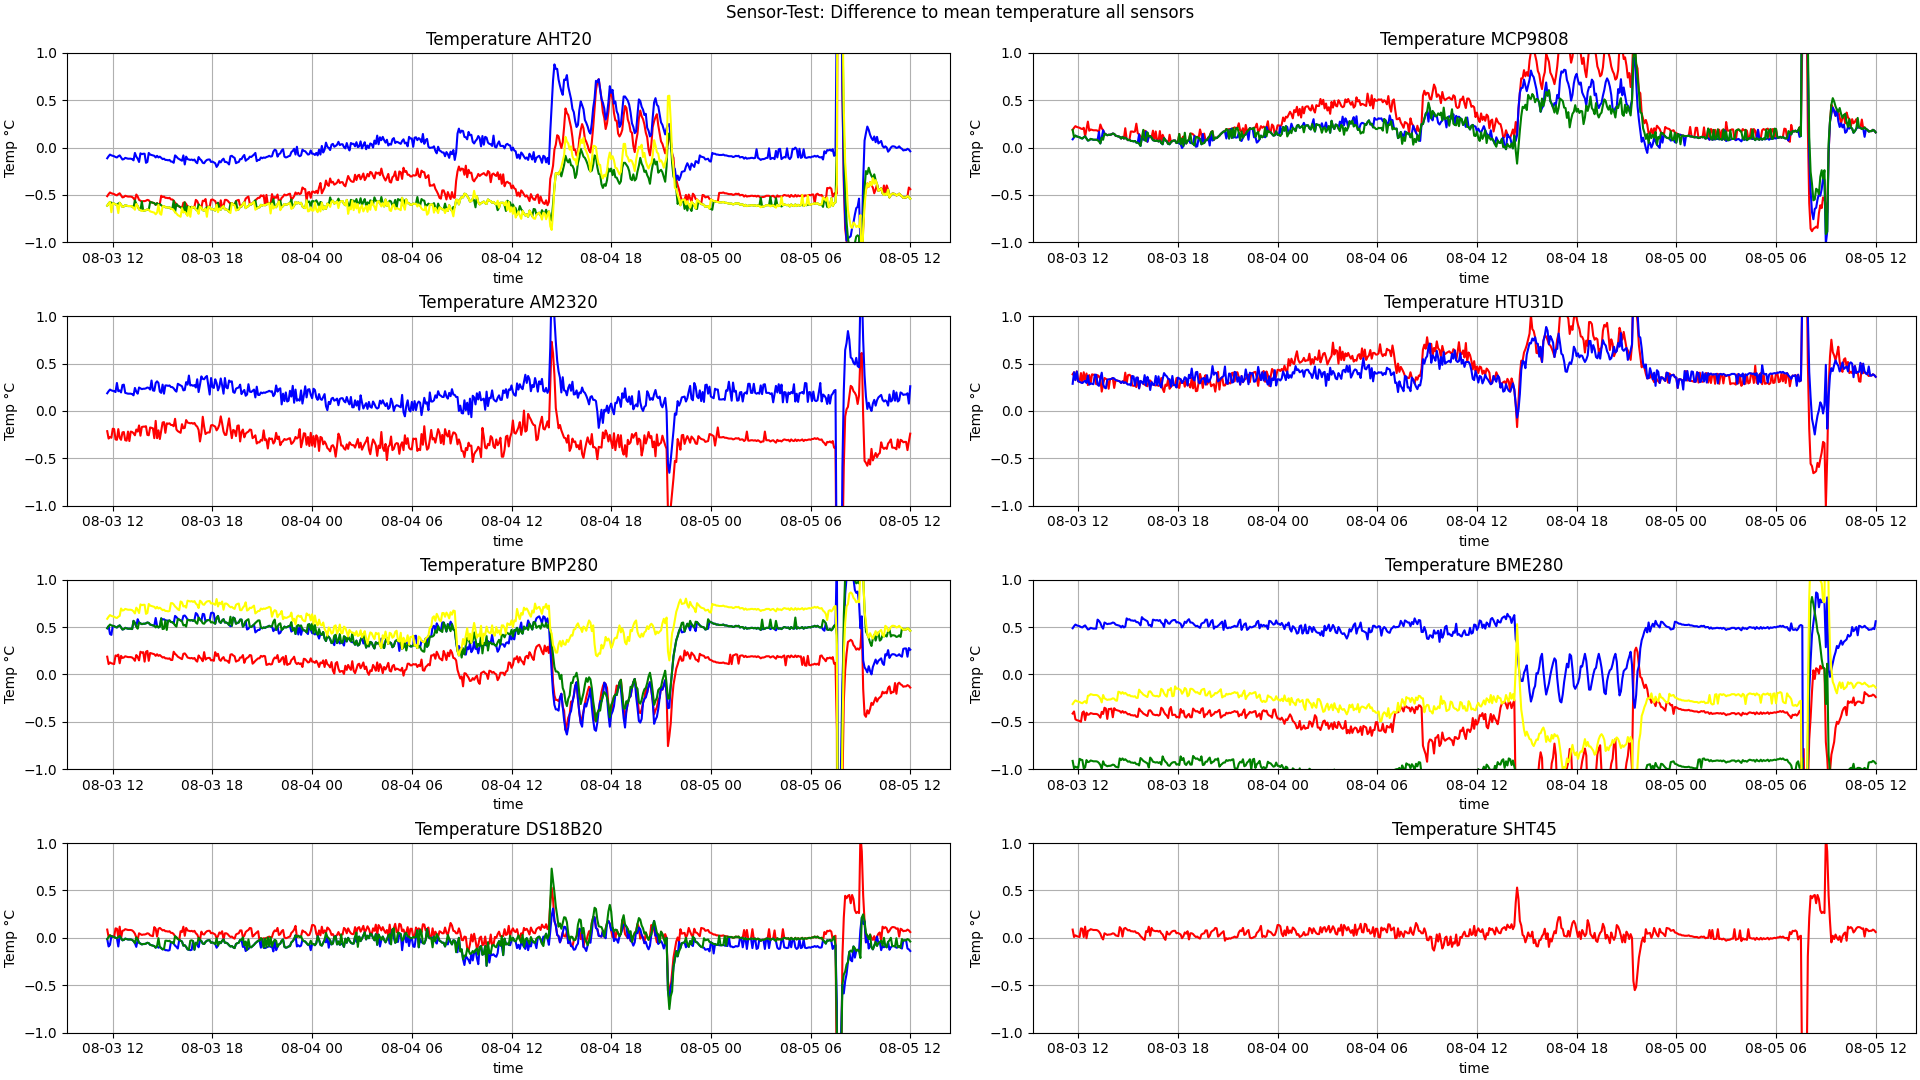
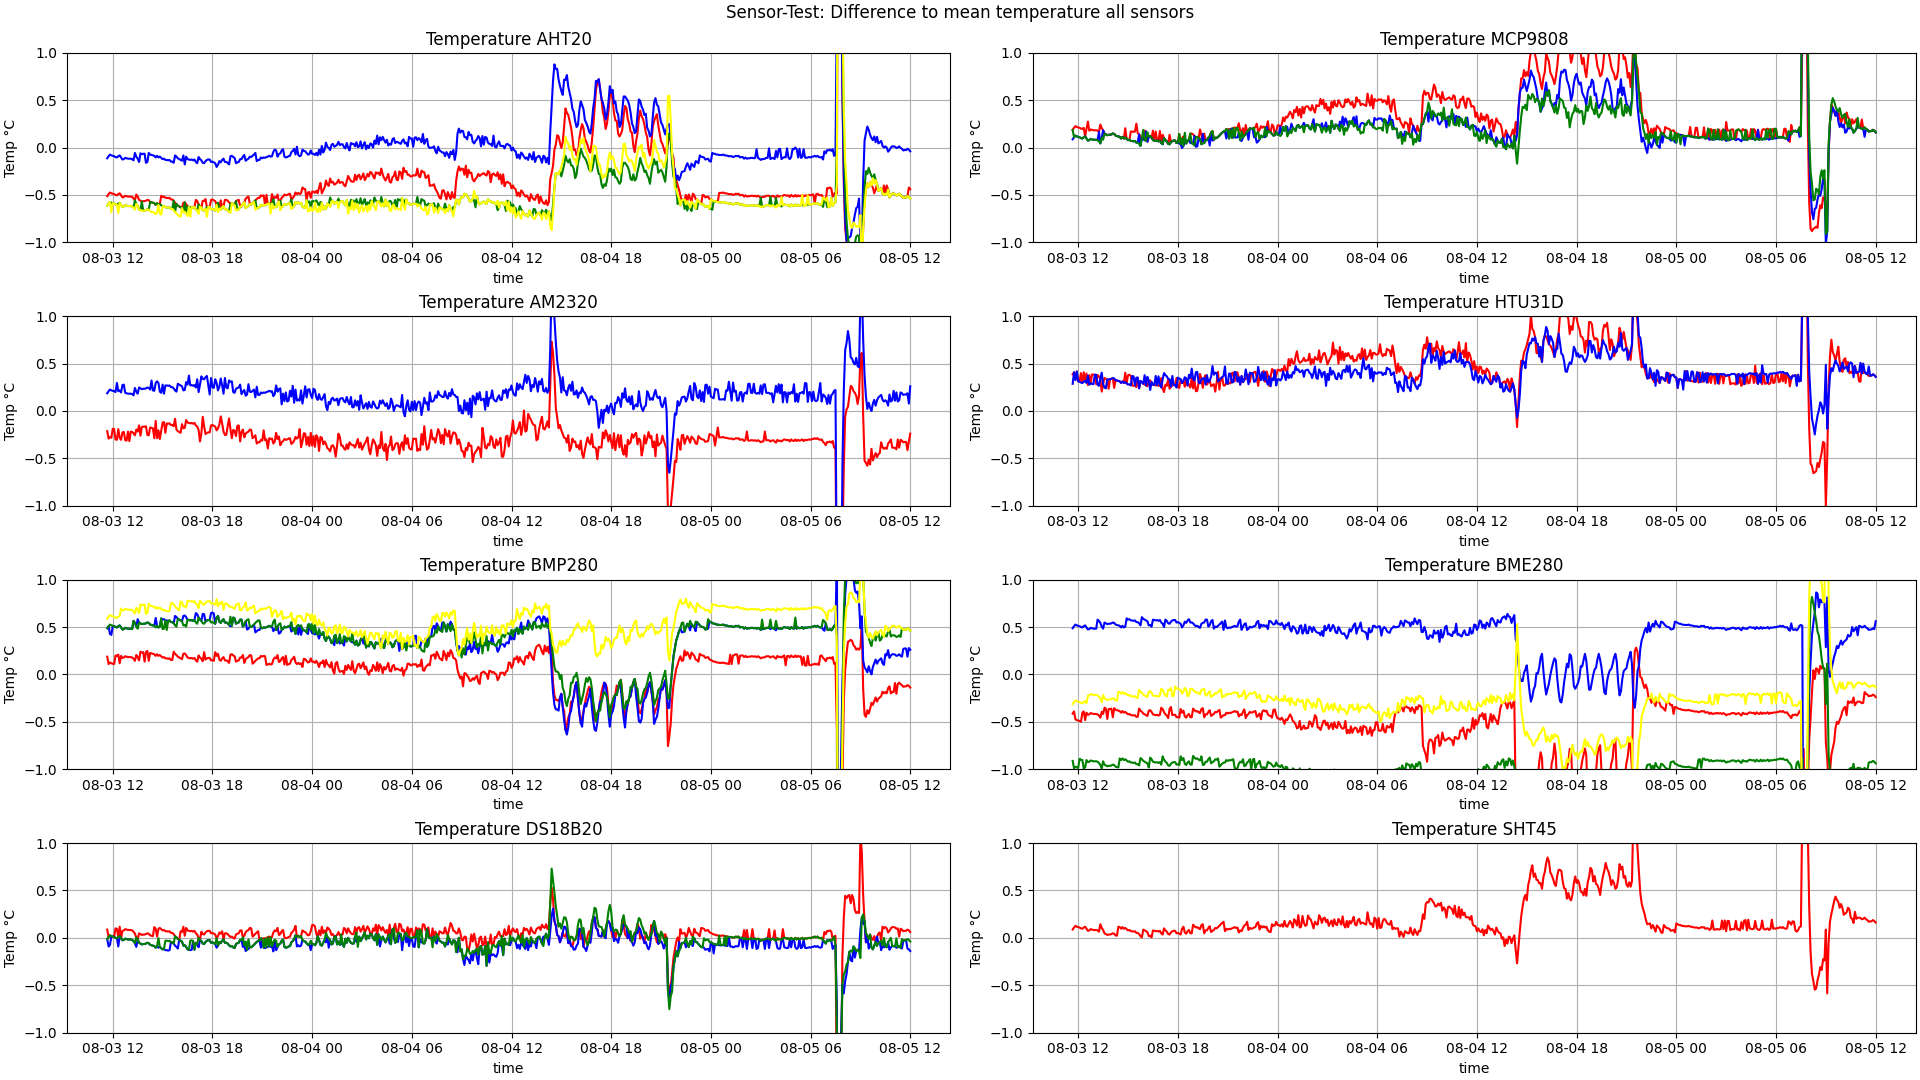
fixed SHT45 (had wrong column-number in the plots)

Changed region(s): [[0.5625, 0.7944, 0.9688, 0.9472]]

diff --git a/README.md b/README.md
@@ -50,12 +50,14 @@ Results
 The test did not bring up any unexpected results. All sensors are within
 the specifications as claimed by their datasheets.
 
-Looking at difference to mean, both the most expensive sensor (SHT45) and
-the cheapest sensor (DS18B20) did a very good job.
+Looking at difference to mean, the cheapest sensor (DS18B20) did the
+best job. The main drawback of the DS18B20 is that it only measures
+temperature.
 
 Some sensors seem to underestimate (e.g. AHT20, BME280), some seem to
 overestimate (e.g. HTU31D). But this is not systematic and not alway true
-for all specimen of a sensor.
+for all specimen of a sensor, so this should not be seen as a property
+of the sensor, but as an artifact of the given measurement series.
 
 All in all, the measurement setup will have a higher influence on the
 measured values than the choice of the sensor.
@@ -64,7 +66,7 @@ Some Recommendations:
 
   - Separate sensors from sources that influence the measurements. This
     implies /not/ to use a Pi or even worse a sensor Pi-hat.
-  - Shutdown the MCU or use at least use deep-sleep modes inbetween
+  - Shutdown the MCU or at least use deep-sleep modes inbetween
     measurements to minimize heat-creap.
   - Check the sensor-initialization. Some drivers don't use ideal
     setups. The BMx280 is a very good example. The datasheet gives
